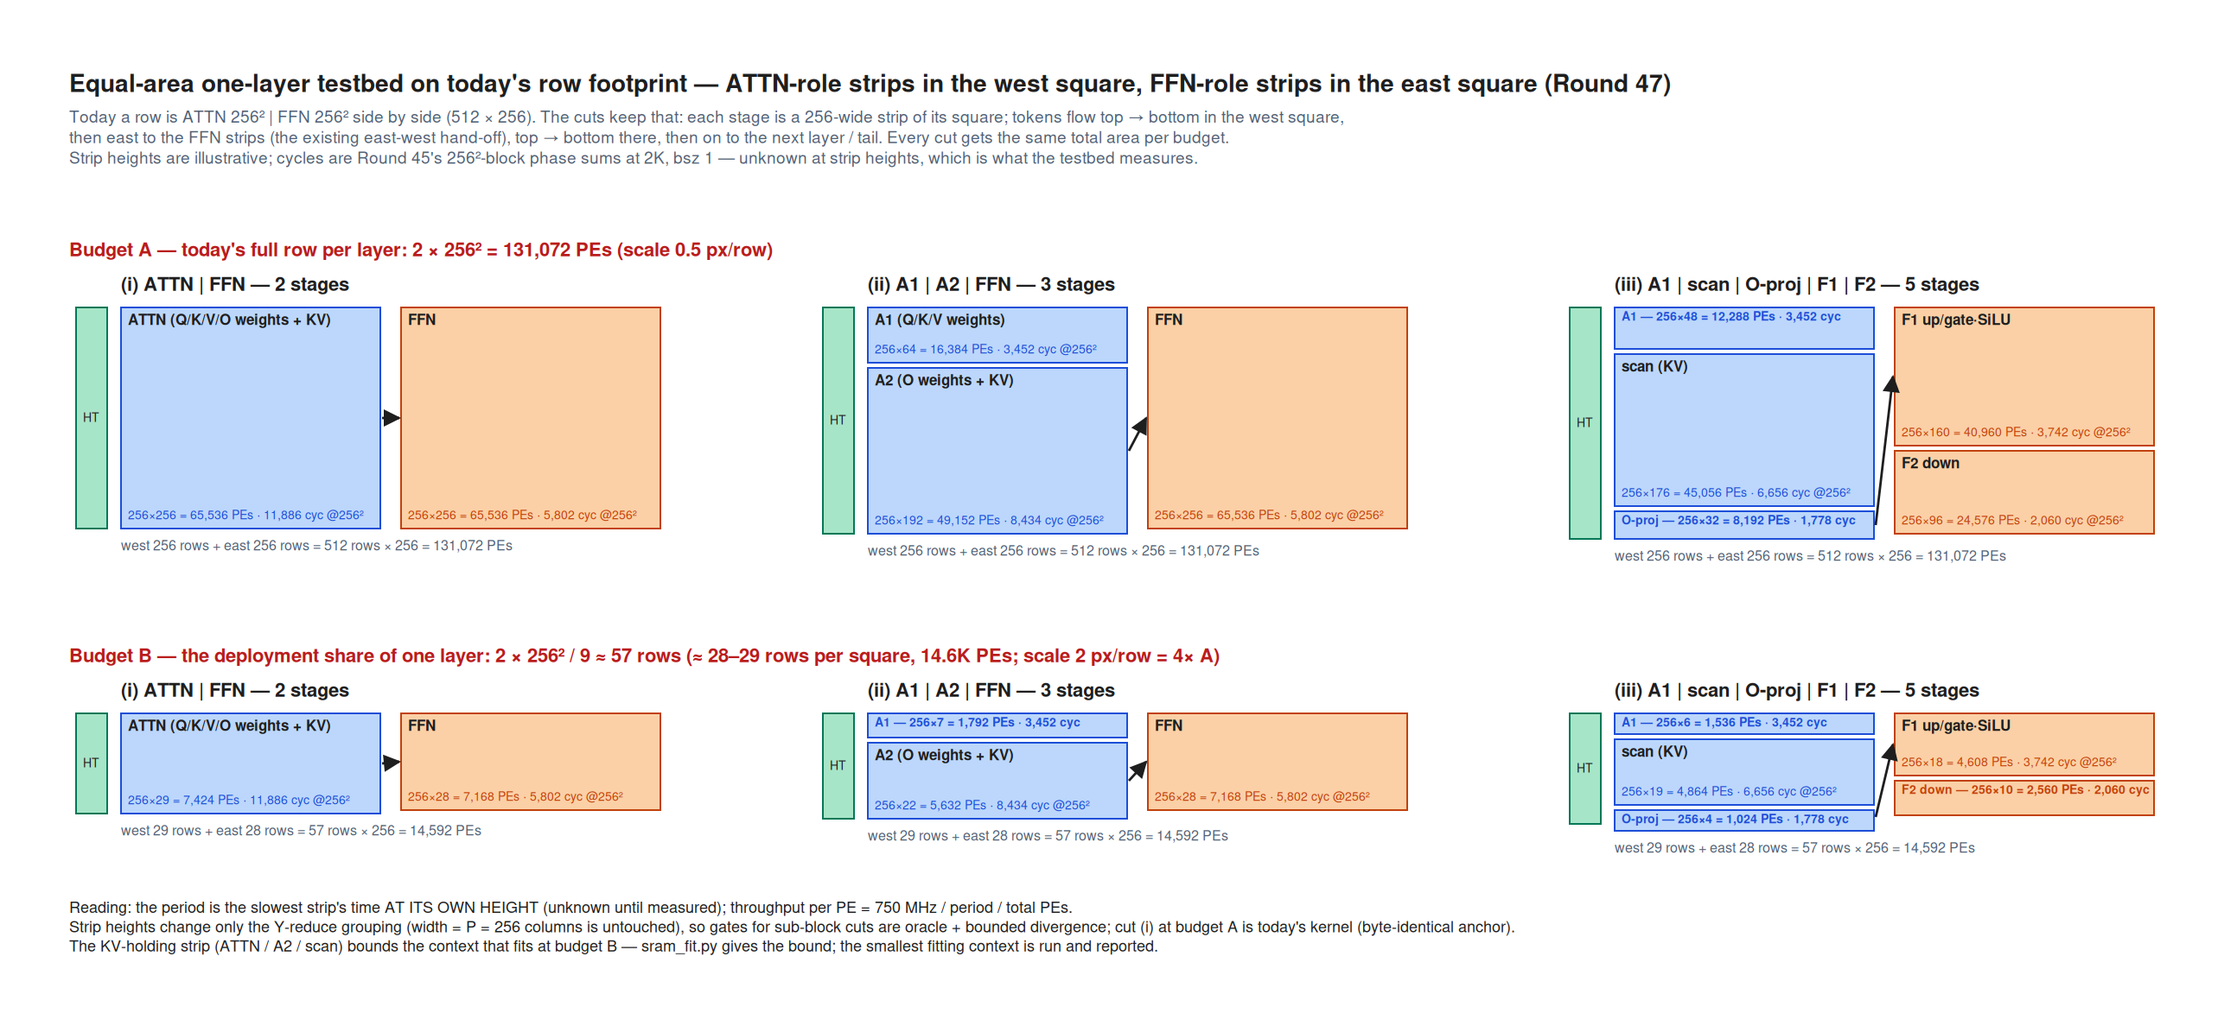
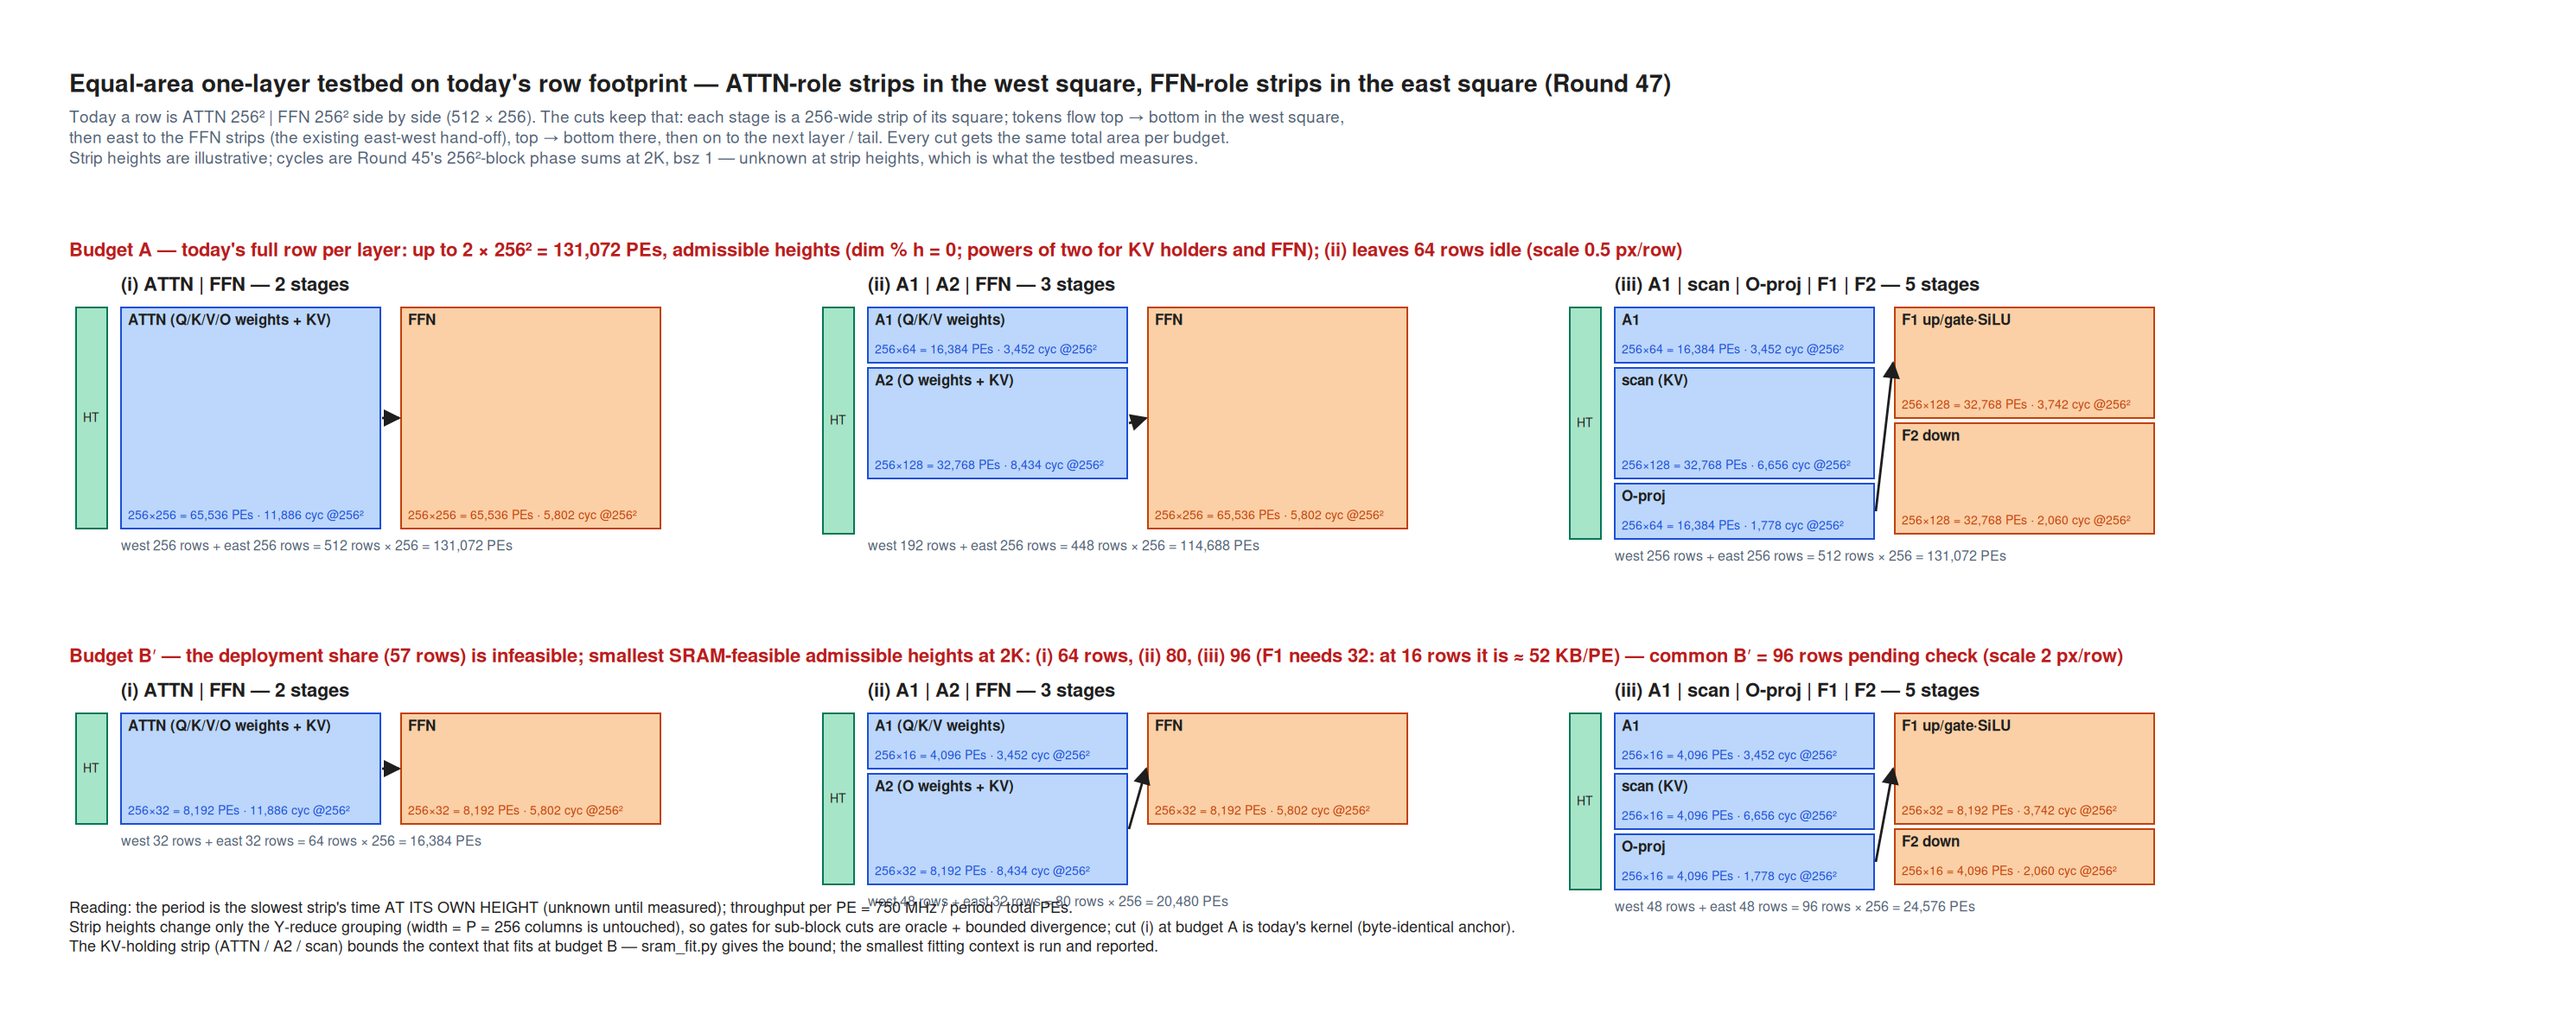
memory: daily reflect captures 2026-09-06 (cron)

diff --git a/projects/wse3-performance-model/inbox/2026-09-06-thin-block-sublinear.md b/projects/wse3-performance-model/inbox/2026-09-06-thin-block-sublinear.md
@@ -1,0 +1,105 @@
+# Capture: thin-block per-layer time is strongly sublinear in PE count (2026-09-06)
+
+Source: session 4b-wide-layer, report Round 73–75
+(docs/reports/2026-09-04-4b-wide-layer-session-report.md).
+
+- Measured on CS-3 (2K context, one layer, strips 256 wide × 32 tall,
+  appliance-compiled, cycles canonical, 750 MHz): cut (i) ATTN 32 | FFN 32
+  production 17,589 cycles/token (42.6K tok/s rig rate); strip busy
+  periods ATTN 17,520, FFN 13,768. Full-square (256²) per-layer times are
+  11,886 / 5,802. So 1/8 of the PEs costs 1.48× (ATTN) and 2.37× (FFN)
+  per layer — neither flat nor linear; T ∝ PEs^−α, α ≈ 0.19 (ATTN),
+  0.41 (FFN). Throughput per allocated PE 5.4× better than the full square.
+- Binding trade-off moves from SRAM to the i8 KV DSD stride cap:
+  kv_len_per_pe ≤ 127 → context ≤ 127·H (4K at H = 32, 8K at 64, 16K at
+  128; 29K today at 256).
+- Enabler: the sub-height generator (funnels, per-axis trees, active_rows
+  guard). The device wedge of the first sub-height run was phantom strip
+  cells beyond the active height overwriting host-painted transit routes
+  (fold parameter shrunk, region height not) — see the landmine memory.
+- Height ladder complete (jobs 21–24, one layer, 2K, production, cycles/
+  token): 256|256 11,866; 128|128 12,278 (ATTN 11,720 / FFN 11,696);
+  64|64 13,658 (13,296 / 10,504); 32|32 17,589 (17,520 / 13,768). ATTN
+  paces every height; per-PE efficiency 0.48 → 0.93 → 1.68 → 2.60
+  tok/s/PE.
+- One-lane ladder (256-wide blocks; a lane = 512 cols + HT, only one fits
+  762): layers per block = H/32 → H = 128/L = 4 ≈ 15K tok/s @16K ctx;
+  H = 64/L = 2 ≈ 27K @8K; H = 32/L = 1 ≈ 43K @4K; today 7.4K @29K —
+  nearly constant tok/s × context (≈ 200M). Lifting the 127-position KV
+  stride cap is the lever that would break the trade.
+- L = 4 deployed and measured (09-06): 9 rows × (ATTN 256×128 + FFN
+  256×128), 4 layers/block, 18 stages, one lane, odd-row serpentine +
+  funnel column. Production forced 2K: 48,872 cycles/token = 15,346 tok/s
+  @750 MHz = 2.08× today's A (101,670); prediction 4 × 12,278 = 49,112
+  (0.995×). Gate: final record bitwise = free ref. Probe per-layer ATTN
+  13,018 / FFN 6,024 — no multi-layer (weight-bank) penalty. Appliance
+  SRAM 2K: ATTN 31.2 / FFN 27.8 / tail 43.4 KB; 8K: 35.7 / 27.8 / 44.8.
+  Tree: /home/lexu/build/4b-l4/code/bprime-snapshot + l4.patch;
+  docs demo/qwen3-4b-thin-stage/l4/.
+- L = 4 at 8K: 62,198 cycles/token = 12,058 tok/s (1.91× A's 118,554);
+  context slope 2.2 cyc/ctx-token (A: 2.8); probe ATTN 17,665 / FFN
+  6,027. Program complete: 4 device + 2 compile jobs, no anomalies.
+- L = 2 one lane (18 rows × 256×64, 2 layers, 36 stages) MEASURED:
+  27,348 cycles/token = 27,424 tok/s @750 MHz = 3.72× A; prediction
+  2 × 13,658 = 27,316 (1.001×). Gate: final record args+vals bitwise =
+  free ref. wsjobs L2F wsjob-anlkis2hlrjgrl3dkvumjg, L2P
+  wsjob-y6j5dsywfuoutq7yrsequv. Ctx cap 8,128.
+- Deployable ladder measured on silicon: A 7,377 tok/s @29K ctx; L = 4
+  15,346 @16K; L = 2 27,424 @8K; L = 1 rig point 42,641 @4K. tok/s ×
+  context ≈ 215–249M across all rungs → rung choice is a context
+  decision, not a performance one, until the 127-position KV stride cap
+  is lifted (~10 lines, byte-identical by construction).
+- L = 1 (36 rows × 256×32, 72 stages) MEASURED: 17,771 cycles/token =
+  42,203 tok/s = 5.72× A; gate bitwise vs free ref; ctx cap 4,064.
+  Compiled SRAM: ATTN 33.1 / FFN 28.2 / tail 43.4 KB.
+- Oracle verdicts 32/64/128 rows all PASS, 0 defects over 3,000 steps.
+- **Le's verdict (2026-09-06):** thinning L is a benchmark axis, not a
+  deployment axis — for fixed context the per-PE KV is ctx ÷ block
+  height, so halving height doubles per-PE KV (8K needs 64 positions/PE
+  at H=128, 256 at H=32). The L axis converts context into stages; it
+  does not create throughput (tok/s × context ≈ 172–249M across all four
+  rungs). The sustainable axis is splitting the OPERATIONS, because only
+  the score/scan step holds KV: cut (iii) A1|scan|O-proj|F1|F2
+  multiplies stages while the KV stage keeps its geometry.
+- Blocker for that branch: cut (ii)'s A1 stall — 128,131 cycles/token vs
+  8,434 derived, localised to A1's first half (RMSNorm + QKV matvecs +
+  fused QKV column all-reduce over 256 rows), 151.5K on 5 of 6 steps,
+  true content 8.1K. Queue-7 theory falsified. Tool for it: the
+  stop-and-read-counters frontier probe.
+- **Vertical role stacking (2026-09-06)**: ATTN above FFN in ONE block
+  column so their heights can differ; attention takes rows from the FFN
+  and the context cap (127 × attention rows) rises. Runs end to end in
+  sim at six bands / three layers with unequal heights; real config
+  compiles on the appliance (wsjob-fbzg6xly3yqk3lom4buuob). Key enabler
+  found by the subagent: change the K-pipe fold from CYCLIC (pipe = row
+  mod 8) to BLOCK (pipe = row ÷ M) — then pipe k always carries the same
+  contiguous dim slice regardless of band height, so a height-to-height
+  hand-off needs no reshard and no extra hop. Strip machinery otherwise
+  unchanged. Appliance SRAM: ATTN band 256×128 = 25.5 KB/PE, FFN band
+  256×64 = 19.4, tail 43.4 (binding). At 128 attention rows the KV is
+  256 B/PE at 2K and only ~2 KB at the 16,256 stride ceiling — so the
+  ceiling is the stride field, not SRAM.
+- **Vertical stacking MEASURED on silicon (2026-09-06)**: six bands
+  ATTN 256×128 / FFN 256×64, 576 rows, one lane, 3 layers, 2K.
+  Production 12,201.9 cycles/token (wsjob-p2cjfcwwtsuf9xwy9vveb7); gate =
+  final-record top-k args and values bitwise equal to the free ref's last
+  step. Probe: attention stage 11,568 vs the ladder's 11,720 for the same
+  block (−1.3%, so standing a block in its own column costs its compute
+  nothing); period 12,202 = pacing stage +4.1% (the K-pipe hop replacing
+  the intra-row multicast); FFN 7,312 vs ladder 6,429 (+13.7%, the same
+  hop, not binding — still under 2/3 of the pacing stage).
+- **Second lane worth 1.34×**: per-layer cost 12,202 stacked vs 12,218
+  inside an L=4 block, so stacking costs nothing per layer; two stacked
+  lanes = 12 stages × 3 layers ≈ 36,606 cycles/token ≈ 20,489 tok/s at
+  the same 589,824 PEs and the same 16,256 context cap, against L=4's
+  measured 48,872 / 15,346. Two stacked lanes are 670 of 762 columns.
+  Assumptions: flat-per-layer for MULTI-layer stacked bands (unvalidated),
+  and the lane-to-lane riser costing less than the period.
+- Landmines: `funnel_pe.csl` at G = 1 stalls one row silently (every cell
+  is an owner, yet the gather still pushes and pops a lane that cannot
+  arrive); a probe lane must never be the collector row's westmost cell
+  (the host port drains from the east, so lane 0 does not feed it) — the
+  cross-band-transit diagnosis for that one was REFUTED by bisect.
+- Pending: the A1 stall; the ~10-line KV stride-cap lift (diff written to
+  `demo/qwen3-4b-thin-stage/kv-stride-lift.md`); vstack device runs; the
+  128² two-lane family (width axis) scoped only.

diff --git a/projects/wse3-performance-model/memory/inbox/2026-09-05-4b-optimisation-backlog.md b/projects/wse3-performance-model/memory/inbox/2026-09-05-4b-optimisation-backlog.md
@@ -1,0 +1,36 @@
+# Qwen3-4B decode/forced-prefill optimisation backlog (every lever found in session 4b-wide-layer, with its measured basis) — 2026-09-05
+
+**Project:** wse3-performance-model
+**Author:** claude (session 4b-wide-layer)
+**Status:** captured — Le asked to record all optimisation points for a later joint revisit
+
+Canonical table with basis/effect/status per lever: report §2c,
+`docs/reports/2026-09-04-4b-wide-layer-session-report.md`
+(https://claude.ai/code/artifact/52cee6ad-bc9a-4883-bcbc-dfd2b98fe338).
+Summary:
+
+- **A. Inside a layer (stage period):** fewer/longer DSD ops (softmax
+  prologue is per-slot overhead, ~960 cyc/layer at bsz 1, 37 % of the phase
+  at bsz 8); cheaper exp kernel (the only context-scaling pass, 69 % of the
+  context slope); fixed collectives (~2K cyc/layer in softmax, 6–8 Y
+  all-reduces/layer; score band all-reduce grows with context); P·V
+  position-inner and fewer score passes (3–10× on the slope at current
+  layout); whole-head layout + flash-decoding merge (~10–15×, removes score
+  wall); SiLU back in D-cache (~1 %). **Rejected:** exact softmax fusion
+  (−8…−14 % on the phase, measured).
+- **B. Pipeline (tokens in flight):** 4 → 8 stages measured 1.47×;
+  production forced tail removes 35.8K/120K cyc/token at thin stages;
+  finer cuts (3 or 5 stages/layer) 1.3–1.8× derived, equal-area testbed in
+  progress; thin layouts B/C/D 31–43K tok/s under flat-time assumption;
+  asymmetric pairing (FFN layers per block = round(T_attn/T_ffn), cap 3);
+  FFN at bsz b for one request; intra-batch causal attention up to 1.6×;
+  two wafers (capacity 53–58K or 2× stages).
+- **C. Capacity:** text-slim done (29,184 device ceiling); ingress tile
+  streaming (7.1 KB at 29K on 64×128) and chunked scores (5.3 KB) make
+  layout C hold 29K; fp8 KV 51K; near/far pools 95K/167K (price
+  unmeasured); ~8 KB boot-only code pageable.
+- **D. Model/algorithm:** speculative decoding / MTP (up to k× on slope and
+  fixed term — most general for a latency-bound kernel); sliding-window /
+  hybrid models (5–10× context per wafer); KV eviction / sparse selection.
+
+Measured anchors: Rounds 26, 37, 39, 44, 45, 48, 49.

diff --git a/projects/wse3-performance-model/memory/inbox/2026-09-04-4b-block-times-vs-batch-and-thin-stage-sram-fit.md b/projects/wse3-performance-model/memory/inbox/2026-09-04-4b-block-times-vs-batch-and-thin-stage-sram-fit.md
@@ -68,3 +68,16 @@ f4pbfv3uetmpyzcf87gi2y, 9t9d8hgzjxhdnt2vzzufrx, 9sdgqjhg5nin2udesnjrcz.
 Files: `demo/qwen3-4b-thin-stage/step1-*`, `results/step1_results.json`.
 Gotcha: the head PE is 89 % full with a 16.4 KB baked token list at 8K — a
 production feed must stream tokens.
+
+## Compiled SRAM supersedes the fit tables; i8 KV-stride floor (2026-09-05, Le's rule: compiled numbers only)
+
+Real-geometry compile-only builds of the one-layer cut (i) strips at 2K:
+**height 16 does not compile** — the KV-cache DSD stride is an 8-bit field,
+so `kv_len_per_pe` ≤ 127 positions per PE → KV-holding stages need ≥ 32
+rows at 2K and ≥ 128 rows at 8K (widening to i16 = separate surgery).
+**Height 32 compiles**: per PE ATTN 32.2 KB, FFN 27.8, strips 4.0, head
+27.3, tail 42.8 (cs-readelf). Also: the FFN inner dimension is
+width-sharded, so FFN activation buffers do NOT grow at thin heights — both
+hand-derived fit tables (Rounds 33/52/53) mis-scaled them. Rule from Le:
+never hand-derive per-PE SRAM; every runnable deployment ships its compiled
+per-stage, per-PE breakdown next to its wsjob id.
